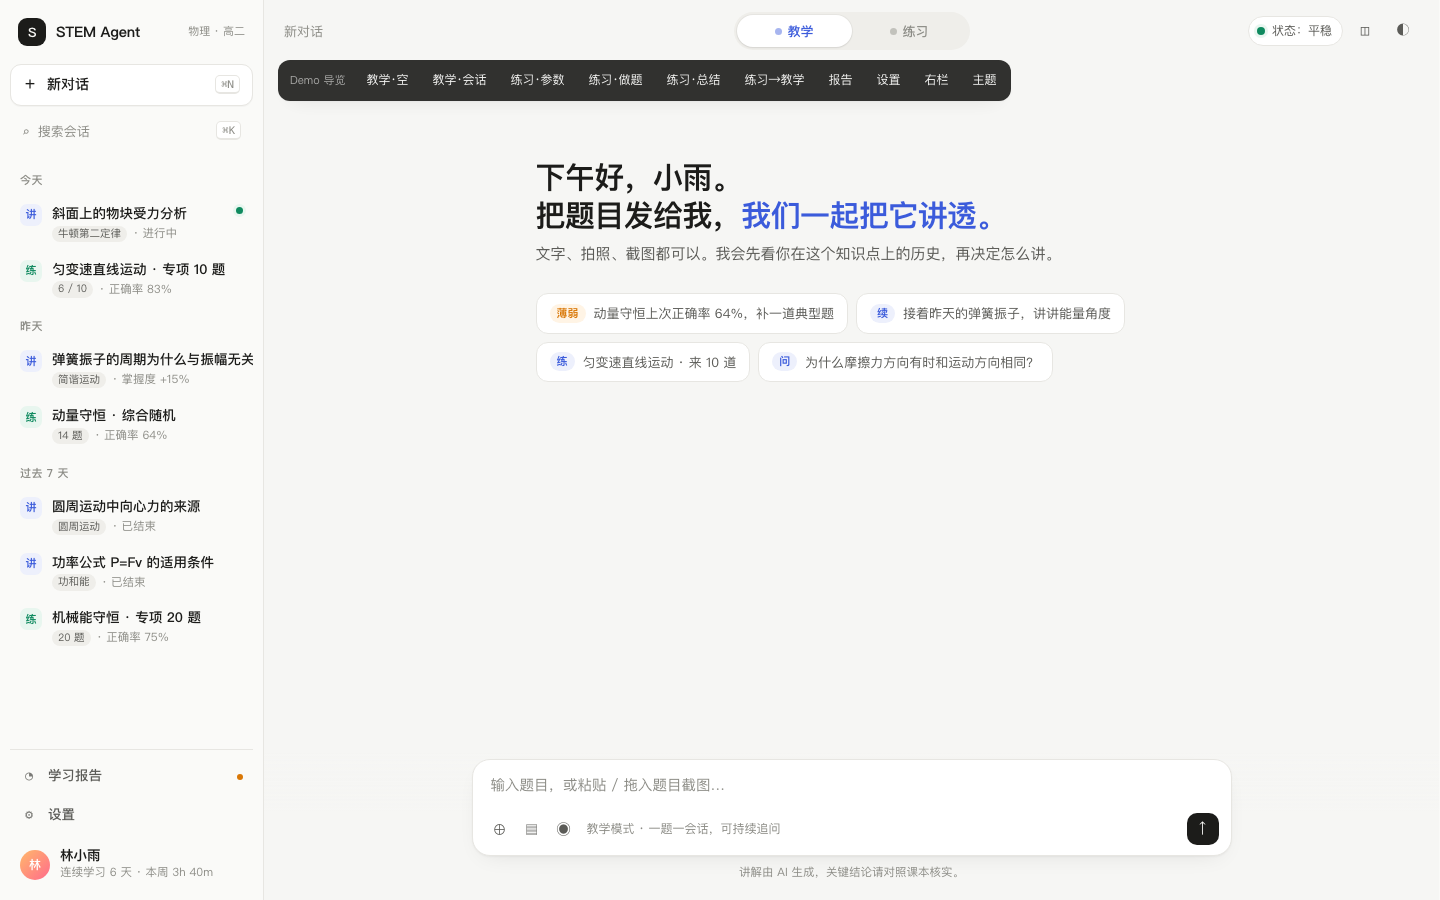
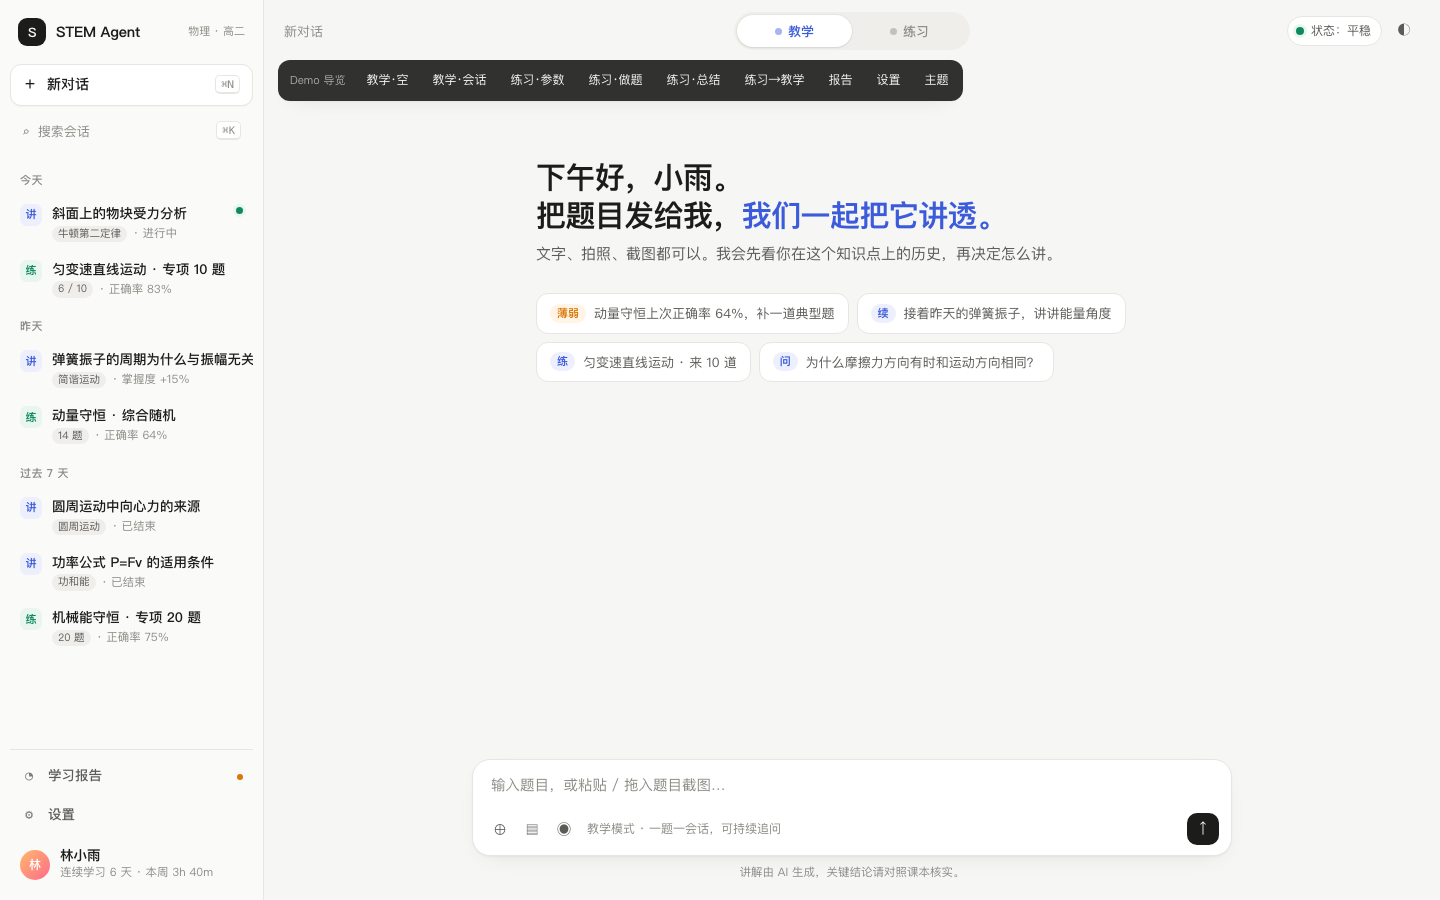
design: 移除右侧依据抽屉，参考题信息并入分析折叠块
Generated with [Claude Code](https://claude.ai/code)
via [Happy](https://happy.engineering)

diff --git a/docs/design/agent-ui-demo.html b/docs/design/agent-ui-demo.html
@@ -64,7 +64,7 @@
   .mono { font-family: ui-monospace, "SF Mono", Menlo, monospace; }
 
   /* ---------- shell ---------- */
-  .app { display: grid; grid-template-columns: 264px 1fr auto; height: 100vh; overflow: hidden; }
+  .app { display: grid; grid-template-columns: 264px 1fr; height: 100vh; overflow: hidden; }
 
   /* ---------- left rail ---------- */
   .rail {
@@ -399,30 +399,6 @@
   .box .tools .modehint { font-size: 12px; color: var(--ink-3); margin-left: 6px; }
   .foot { text-align: center; font-size: 11.5px; color: var(--ink-3); margin-top: 8px; }
 
-  /* ---------- right drawer ---------- */
-  .drawer { width: 0; border-left: 1px solid transparent; background: var(--panel-2); overflow: hidden; transition: width .28s cubic-bezier(.2,.8,.2,1), border-color .28s; }
-  .drawer.open { width: 320px; border-color: var(--line); }
-  .drawer .in { width: 320px; height: 100%; display: flex; flex-direction: column; }
-  .drawer .dh { display: flex; align-items: center; padding: 14px 16px 10px; font-weight: 600; font-size: 13.5px; gap: 8px; }
-  .drawer .dh .iconbtn { margin-left: auto; }
-  .dtabs { display: flex; gap: 2px; padding: 0 12px; border-bottom: 1px solid var(--line); }
-  .dtabs button { padding: 8px 10px; font-size: 12.5px; color: var(--ink-3); border-bottom: 2px solid transparent; margin-bottom: -1px; }
-  .dtabs button.on { color: var(--ink); border-color: var(--ink); font-weight: 500; }
-  .dbody { flex: 1; overflow: auto; padding: 14px 16px 24px; }
-  .sec { margin-bottom: 18px; }
-  .sec h5 { margin: 0 0 8px; font-size: 11.5px; letter-spacing: .4px; text-transform: uppercase; color: var(--ink-3); font-weight: 600; }
-  .kp { display: flex; align-items: center; gap: 10px; padding: 8px 10px; border-radius: 9px; background: var(--panel); border: 1px solid var(--line-2); margin-bottom: 6px; font-size: 13px; }
-  .kp .bar { width: 64px; height: 5px; border-radius: 5px; background: var(--line-2); overflow: hidden; margin-left: auto; }
-  .kp .bar i { display: block; height: 100%; background: var(--accent); }
-  .kp .pct { font-size: 11.5px; color: var(--ink-3); width: 32px; text-align: right; font-variant-numeric: tabular-nums; }
-  .strat { font-size: 13px; color: var(--ink-2); background: var(--panel); border: 1px solid var(--line-2); border-radius: 10px; padding: 10px 12px; }
-  .strat li { margin: 4px 0; }
-  .ref { padding: 10px 12px; border-radius: 10px; background: var(--panel); border: 1px solid var(--line-2); margin-bottom: 8px; font-size: 12.5px; }
-  .ref .t { display: flex; justify-content: space-between; color: var(--ink-3); font-size: 11.5px; margin-bottom: 4px; }
-  .emoline { display: flex; align-items: flex-end; gap: 4px; height: 44px; padding: 4px 0; }
-  .emoline i { flex: 1; border-radius: 3px 3px 0 0; background: var(--accent); opacity: .35; }
-  .emoline i.now { opacity: 1; }
-
   /* ---------- report view ---------- */
   .report { max-width: 920px; margin: 0 auto; padding: 24px 28px 120px; }
   .report h1 { font-size: 22px; font-weight: 600; letter-spacing: -.4px; margin: 0; }
@@ -519,8 +495,7 @@
       </div>
       <div class="right">
         <div class="emo" title="情绪识别运行中，仅用于调整讲解方式"><span class="cam"></span>状态：平稳</div>
-        <button class="iconbtn" id="drawerBtn" onclick="toggleDrawer()" title="本轮依据：知识点 / 画像 / 策略 / 参考题">◫</button>
-        <button class="iconbtn" onclick="toggleTheme()" title="切换主题">◐</button>
+                <button class="iconbtn" onclick="toggleTheme()" title="切换主题">◐</button>
       </div>
     </header>
 
@@ -560,7 +535,7 @@
                   <div class="step done"><span class="st"></span><span class="nm">知识点分析</span><span class="out"><span class="pill">牛顿第二定律</span><span class="pill">摩擦力</span><span class="pill">受力分解</span></span></div>
                   <div class="step done"><span class="st"></span><span class="nm">读取你的画像</span><span class="out">摩擦力方向判断近 2 周错 3 次 · 上次学习 4 天前</span></div>
                   <div class="step done"><span class="st"></span><span class="nm">教学策略</span><span class="out">先让你自己找错，不直接给答案 · 语气鼓励</span></div>
-                  <div class="step done"><span class="st"></span><span class="nm">检索参考题</span><span class="out">命中 2 道相似题 <a onclick="openDrawer('ref')">查看</a></span></div>
+                  <div class="step done"><span class="st"></span><span class="nm">检索参考题</span><span class="out">命中 2 道相似题 · #2311（91%）#1876（84%）</span></div>
                 </div>
               </details>
 
@@ -867,47 +842,7 @@ x = v²/(2a) = 400/10 = 40 m</textarea>
     </div>
   </main>
 
-  <!-- ===================== RIGHT DRAWER ===================== -->
-  <aside class="drawer" id="drawer">
-    <div class="in">
-      <div class="dh">本轮依据<button class="iconbtn" onclick="toggleDrawer()">×</button></div>
-      <div class="dtabs">
-        <button class="on" onclick="dtab(this,'d-kp')">知识点</button>
-        <button onclick="dtab(this,'d-profile')">我的画像</button>
-        <button onclick="dtab(this,'d-strat')">策略</button>
-        <button onclick="dtab(this,'d-ref')" id="dtab-ref">参考题</button>
-      </div>
-      <div class="dbody">
-        <div class="dsec" id="d-kp">
-          <div class="sec"><h5>本题涉及</h5>
-            <div class="kp">牛顿第二定律<span class="bar"><i style="width:58%"></i></span><span class="pct">58%</span></div>
-            <div class="kp">摩擦力<span class="bar"><i style="width:52%"></i></span><span class="pct">52%</span></div>
-            <div class="kp">受力分解<span class="bar"><i style="width:81%"></i></span><span class="pct">81%</span></div>
-          </div>
-          <div class="sec"><h5>所属章节</h5><div class="muted" style="font-size:12.5px">力学 › 牛顿运动定律 › 牛顿第二定律的应用</div></div>
-        </div>
-        <div class="dsec" id="d-profile" style="display:none">
-          <div class="sec"><h5>牛顿第二定律 · 历史</h5>
-            <div class="kp">累计练题 <b style="margin-left:auto">6</b></div>
-            <div class="kp">历史错误率 <b style="margin-left:auto">50%</b></div>
-            <div class="kp">上次学习 <b style="margin-left:auto">4 天前</b></div>
-          </div>
-          <div class="sec"><h5>常见错因</h5><div class="strat"><ul style="margin:0;padding-left:16px"><li>摩擦力方向与运动趋势相反，判断反了（3 次）</li><li>cos / sin 分量写反（1 次）</li></ul></div></div>
-          <div class="sec"><h5>情绪轨迹（该知识点）</h5><div class="emoline"><i style="height:70%"></i><i style="height:55%"></i><i style="height:35%"></i><i style="height:30%"></i><i style="height:45%" class="now"></i></div><div class="hint">近两次偏"受挫"，当前轮次已切换为引导式讲解。</div></div>
-        </div>
-        <div class="dsec" id="d-strat" style="display:none">
-          <div class="sec"><h5>教学策略模块返回</h5><div class="strat"><ol style="margin:0;padding-left:16px"><li>不直接给答案，先让学生定位错误步骤</li><li>聚焦"运动趋势 → 摩擦力方向"这一处，不展开其他</li><li>语气：肯定已做对的部分，再指出问题</li><li>如连续两轮仍错，切换为完整示范</li></ol></div></div>
-          <div class="sec"><h5>注入上下文</h5><div class="muted" style="font-size:12.5px">历史情绪图谱 · 相似题 2 道 · 本会话 4 轮对话</div></div>
-        </div>
-        <div class="dsec" id="d-ref" style="display:none">
-          <div class="sec"><h5>相似题（向量检索）</h5>
-            <div class="ref"><div class="t"><span>#2311 · 中等</span><span>相似度 91%</span></div>质量为 m 的物体在倾角 θ 的粗糙斜面上受沿斜面向上的恒力 F 作用，动摩擦因数 μ……</div>
-            <div class="ref"><div class="t"><span>#1876 · 基础</span><span>相似度 84%</span></div>物块静止在斜面上，判断摩擦力方向并求大小……</div>
-          </div>
-        </div>
-      </div>
-    </div>
-  </aside>
+
 </div>
 
 <div class="guide">
@@ -920,7 +855,6 @@ x = v²/(2a) = 400/10 = 40 m</textarea>
   <button onclick="go('teach2')">练习→教学</button>
   <button onclick="go('report')">报告</button>
   <button onclick="go('settings')">设置</button>
-  <button onclick="toggleDrawer()">右栏</button>
   <button onclick="toggleTheme()">主题</button>
 </div>
 
@@ -964,24 +898,11 @@ x = v²/(2a) = 400/10 = 40 m</textarea>
     ctx.innerHTML = v === 'teach' ? '<span class="tg">牛顿第二定律 <span class="x">×</span></span><span class="tg">IMG_2031.jpg <span class="x">×</span></span>'
                   : v === 'teach2' ? '<span class="tg">练习第 9 题 <span class="x">×</span></span><span class="tg">我的作答 <span class="x">×</span></span>' : '';
   }
-  function toggleDrawer() {
-    const d = document.getElementById('drawer'); d.classList.toggle('open');
-    document.getElementById('drawerBtn').classList.toggle('on', d.classList.contains('open'));
-  }
-  function openDrawer(tab) {
-    const d = document.getElementById('drawer'); if (!d.classList.contains('open')) toggleDrawer();
-    if (tab === 'ref') dtab(document.getElementById('dtab-ref'), 'd-ref');
-  }
-  function dtab(btn, id) {
-    document.querySelectorAll('.dtabs button').forEach(b => b.classList.toggle('on', b === btn));
-    document.querySelectorAll('.dsec').forEach(s => s.style.display = s.id === id ? '' : 'none');
-  }
   function toggleTheme() { document.body.dataset.theme = document.body.dataset.theme === 'dark' ? 'light' : 'dark'; }
   function pick(el) { document.querySelectorAll('#opts .opt').forEach(o => o.classList.remove('pick')); el.classList.add('pick'); }
 
   const init = new URLSearchParams(location.search);
   if (init.get('theme')) document.body.dataset.theme = init.get('theme');
-  if (init.get('drawer') === '1') toggleDrawer();
   go(init.get('view') || 'empty');
 </script>
 </body>
